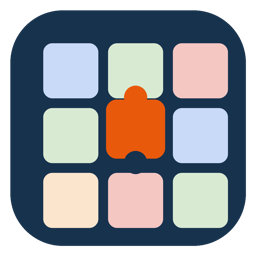
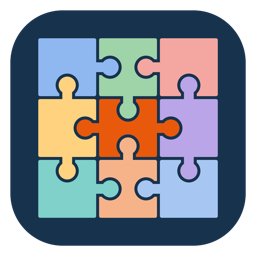
Nuova icona a puzzle; tolto «gratis» in attesa della licenza

diff --git a/docs/index.html b/docs/index.html
@@ -43,7 +43,7 @@
     <p class="intro">Inserisci i desiderata dei colleghi, premi <b>Genera</b>: Incastro Turni propone un turno che rispetta
       le regole del reparto e distribuisce con equità notti, festivi e weekend. Tu controlli, ritocchi e pubblichi.</p>
     <div class="azioni">
-      <a class="bottone" href="#scarica">Scarica gratis</a>
+      <a class="bottone" href="#scarica">Scarica</a>
       <a class="link-freccia" href="#video">Guarda il video</a>
     </div>
     <p class="nota-piccola">Per Windows e Mac · si installa senza permessi di amministratore · si aggiorna da sola</p>
@@ -239,7 +239,7 @@
   <div class="contenitore">
     <div class="titolo-sezione">
       <p class="occhiello">Scarica</p>
-      <h2>Gratis, per Windows e Mac.</h2>
+      <h2>Per Windows e Mac.</h2>
       <p>Versione <span id="versione">più recente</span> · <a href="novita.html">cosa c'è di nuovo</a></p>
     </div>
     <div class="scarica">
@@ -275,7 +275,7 @@
   <div class="contenitore">
     <div class="avvertenze">
       <h2>Un progetto personale</h2>
-      <p>Incastro Turni è un progetto personale, sviluppato <b>nel tempo libero</b> e messo a disposizione gratuitamente.</p>
+      <p>Incastro Turni è un progetto personale, sviluppato <b>nel tempo libero</b>.</p>
       <p>Il software è fornito <b>così com'è, senza garanzie</b> di alcun tipo. L'autore non si assume responsabilità per l'uso
         che se ne fa né per i turni prodotti: ogni turno va sempre controllato e approvato da chi ne ha la responsabilità.</p>
       <p>Per ora <b>non è previsto un supporto ufficiale</b>. Problemi, dubbi e idee si possono segnalare nella pagina delle

diff --git a/docs/assets/sito.css b/docs/assets/sito.css
@@ -59,7 +59,7 @@ p { margin: 0 0 1em; }
 .nav .contenitore { display: flex; align-items: center; gap: 22px; height: 52px; }
 .marchio { display: flex; align-items: center; gap: 9px; color: var(--testo); font-weight: 600; font-size: 17px; white-space: nowrap; }
 .marchio:hover { text-decoration: none; }
-.marchio img { width: 26px; height: 26px; border-radius: 6px; }
+.marchio img { width: 28px; height: 28px; }
 .nav .voci { display: flex; gap: 22px; margin-left: auto; font-size: 13px; }
 .nav .voci a { color: var(--testo); opacity: .8; }
 .nav .voci a:hover { opacity: 1; text-decoration: none; }
@@ -83,7 +83,7 @@ p { margin: 0 0 1em; }
 
 /* eroe */
 .eroe { text-align: center; padding: 72px 0 0; overflow: hidden; }
-.eroe .icona { width: 88px; height: 88px; margin: 0 auto 22px; border-radius: 20px; box-shadow: 0 10px 30px -10px rgba(27, 51, 80, .5); }
+.eroe .icona { width: 104px; height: 104px; margin: 0 auto 18px; filter: drop-shadow(0 10px 18px rgba(27, 51, 80, .35)); }
 .eroe h1 { font-size: clamp(44px, 8vw, 80px); line-height: 1.05; letter-spacing: -.035em; font-weight: 700; }
 .eroe .slogan {
   font-size: clamp(26px, 4.2vw, 44px); line-height: 1.12; font-weight: 600; letter-spacing: -.025em; margin: 10px 0 18px;
